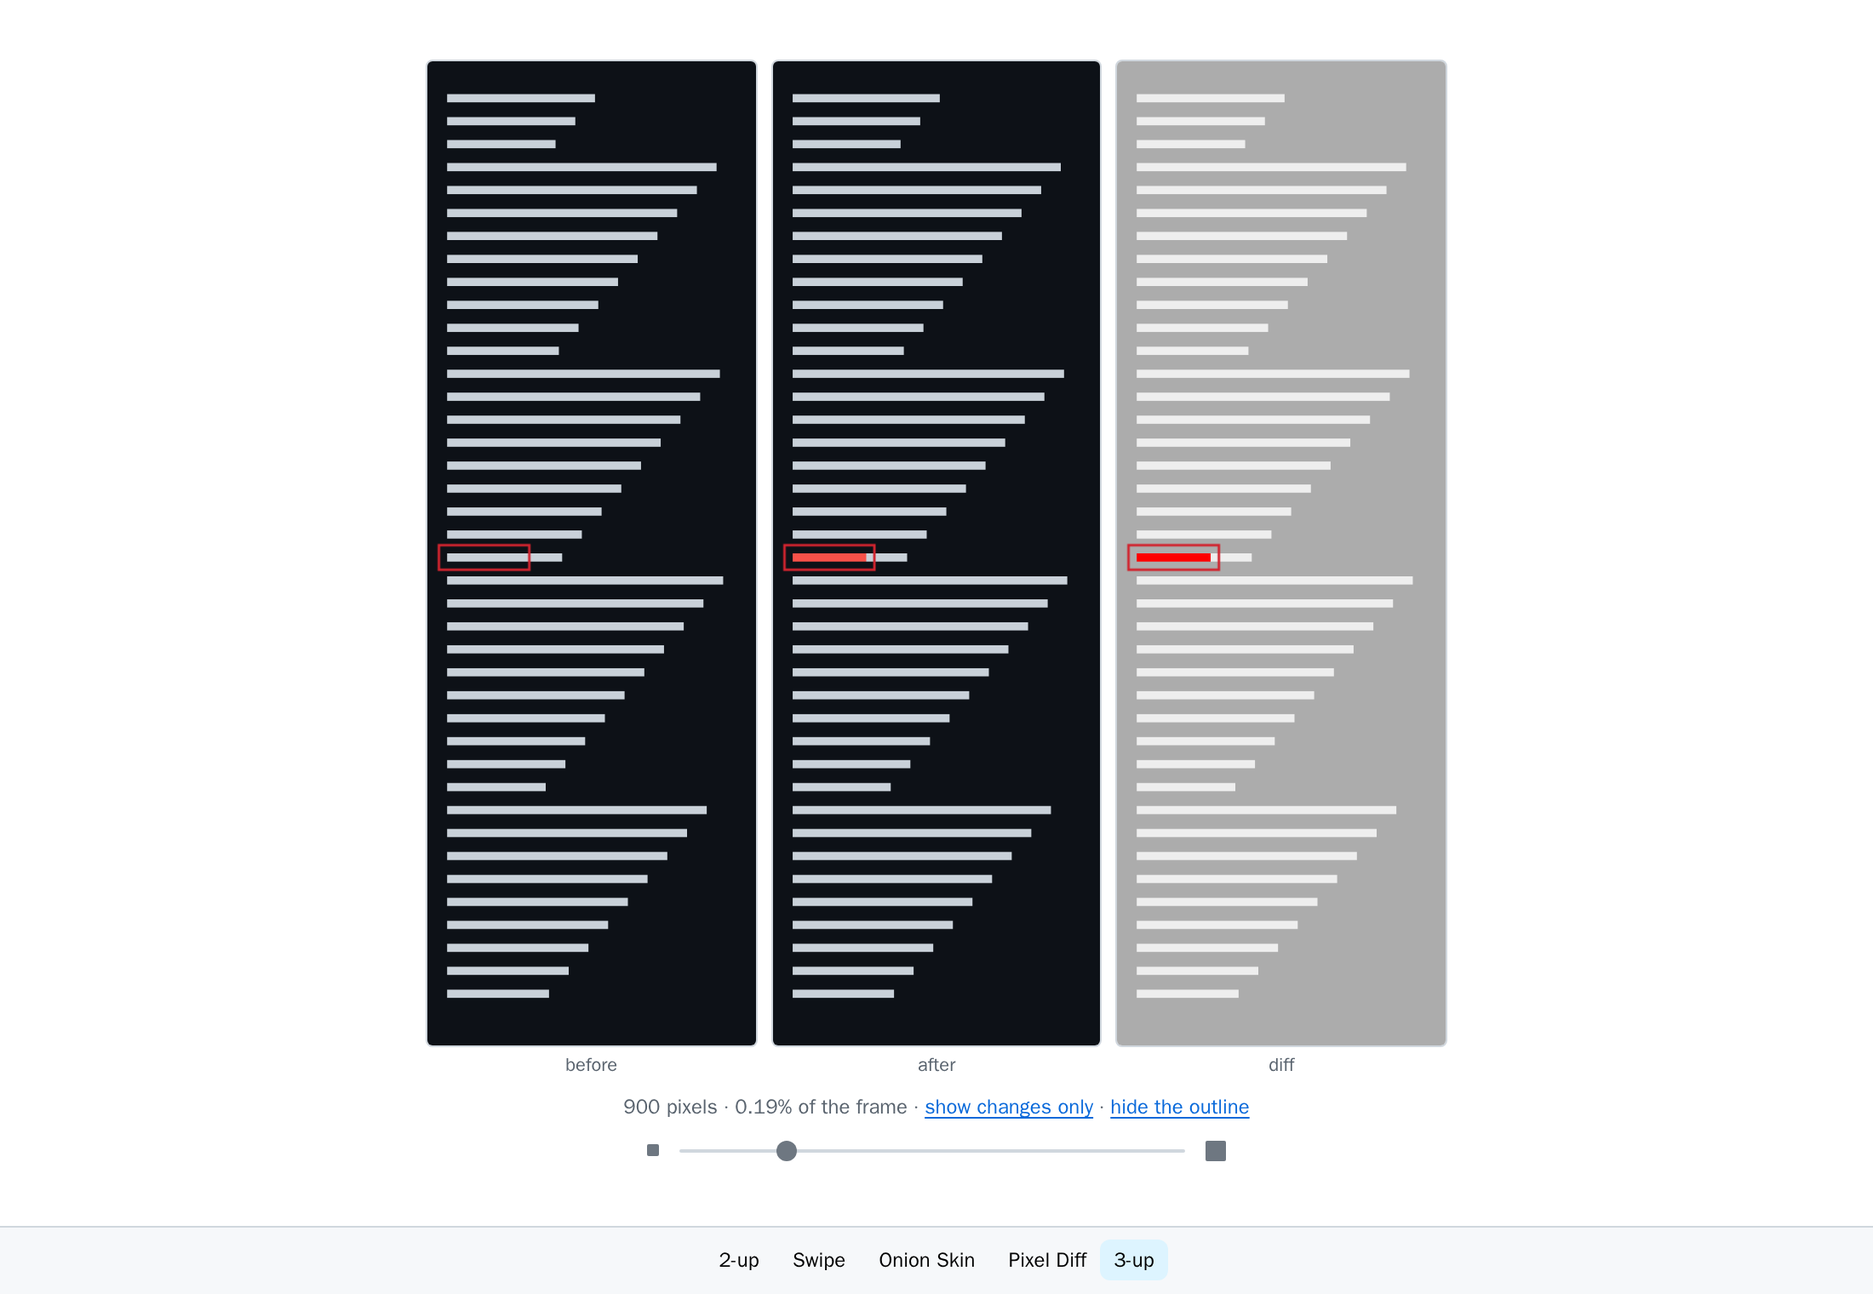
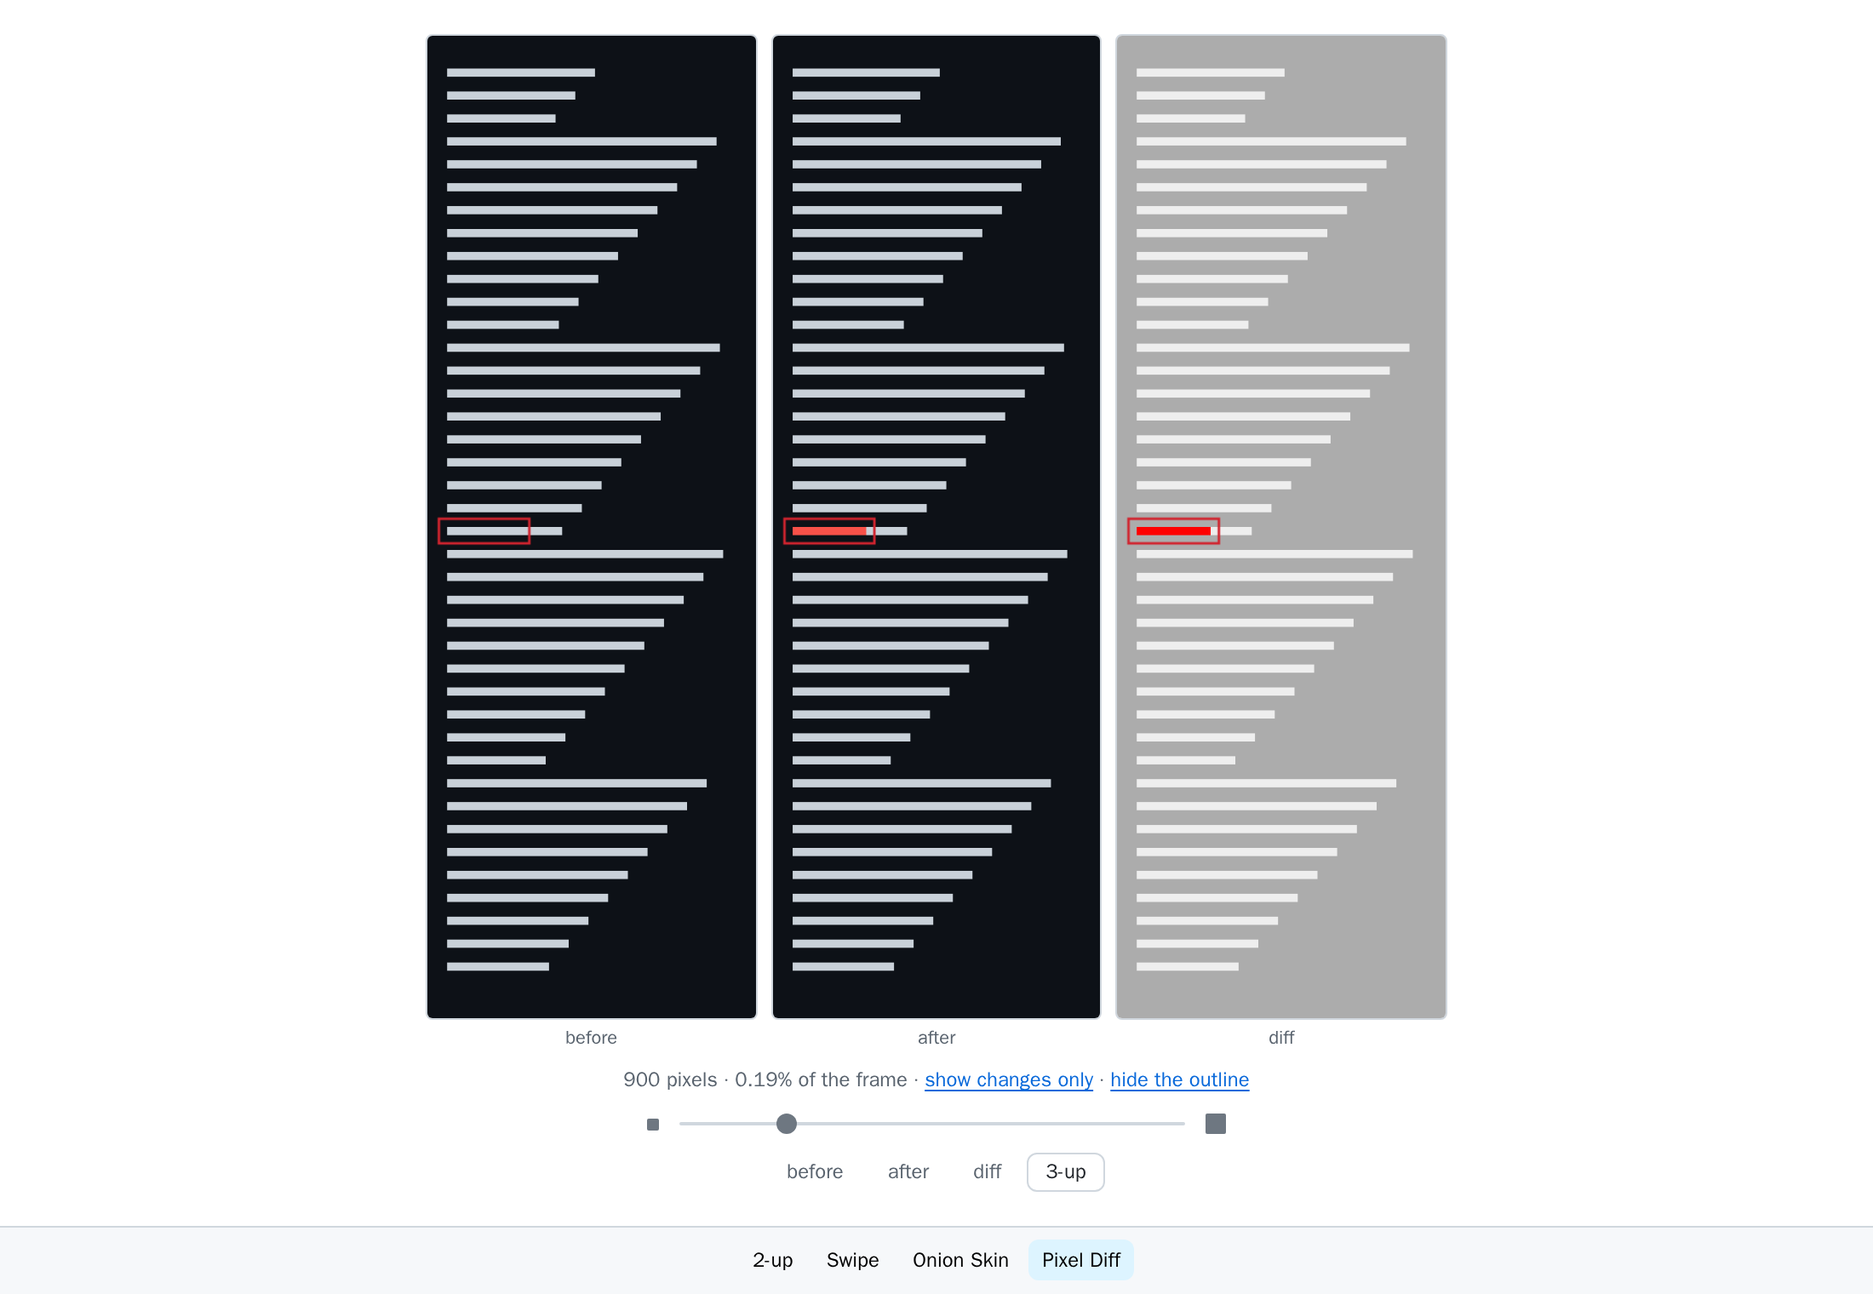
«3-up» — четвёртая кнопка переключателя, а не пункт ряда (#10)
Три кадра рядом — это способ посмотреть на ту же разницу, а не другой
режим просмотра: в ряду GitHub ему делать нечего. Заодно выбранный кадр
теперь запоминается между картинками, как порог и рамка.

Changed region(s): [[0.2164, 0.0, 0.7727, 0.9276], [0.4018, 0.9586, 0.6491, 0.9895]]

diff --git a/src/content/frame.js b/src/content/frame.js
@@ -12,8 +12,9 @@
   const { plural, t } = global.GhPixelDiffI18n;
 
   const MODE = 'pixel-diff';
-  /** Второй наш режим: три кадра рядом — «до», «после» и разница. */
-  const MODE_TRIPLE = 'pixel-3up';
+  /** Что показано: один из кадров или все три сразу. */
+  const FRAMES = { before: 'viewBefore', after: 'viewAfter', diff: 'viewDiff', triple: 'viewTriple' };
+  const FRAME_KEY = 'ghpd:frame';
   const CROP_PADDING = 40;
   /** Порог pixelmatch: 0 — ловит даже сглаживание, 0.5 — только явные отличия. */
   const THRESHOLD_MAX = 0.5;
@@ -64,6 +65,7 @@
     [THRESHOLD_KEY]: null,
     [OUTLINE_KEY]: null,
     [MODE_KEY]: null,
+    [FRAME_KEY]: null,
   };
 
   async function loadSettings() {
@@ -339,7 +341,8 @@
     const triple = el('div', 'ghpd-triple');
     triple.hidden = true;
     const tripleCanvases = new Map();
-    for (const [name, key] of Object.entries({ before: 'viewBefore', after: 'viewAfter', diff: 'viewDiff' })) {
+    for (const [name, key] of Object.entries(FRAMES)) {
+      if (name === 'triple') continue;
       const item = el('div', 'ghpd-triple-item');
       const tripleCanvas = el('canvas', 'ghpd-canvas');
       tripleCanvas.setAttribute('role', 'img');
@@ -365,20 +368,18 @@
     let session = null;
     let starting = null;
     let cropped = true;
-    // Какой из трёх кадров показан: разница, «до» или «после».
-    let shownFrame = 'diff';
-    // Раскладка: один кадр или три рядом.
-    let layout = MODE;
+    // Что показано: разница, «до», «после» или все три сразу. Выбор живёт
+    // между картинками — как порог и рамка.
+    let shownFrame = FRAMES[readSetting(FRAME_KEY)] ? readSetting(FRAME_KEY) : 'diff';
     // Рамка вокруг изменений — по умолчанию да: без неё правку в несколько
     // пикселей на уменьшенном кадре не найти. Но на мелком снимке она сама
     // закрывает картинку, поэтому её можно убрать, и выбор запоминается.
     let outline = readSetting(OUTLINE_KEY) !== 'off';
 
     const render = () => {
-      const single = layout === MODE;
+      const single = shownFrame !== 'triple';
       canvas.hidden = !single;
       triple.hidden = single;
-      views.hidden = !single || !viewsAllowed;
 
       const box = single
         ? drawCrop(canvas, full, result, cropped, outline, shownFrame)
@@ -505,23 +506,19 @@
       }
     };
 
-    // Показывать ли переключатель кадров — решает настройка; в раскладке из
-    // трёх кадров он не нужен, там и так видно все три.
-    let viewsAllowed = true;
-
     // Переключатель кадров. Родные 2-up и Swipe показывают то же самое, но
     // без обрезки по изменениям и без общего масштаба — здесь «до» и «после»
     // ложатся ровно на то место, где найдена разница.
     const views = el('div', 'ghpd-views');
     const viewButtons = new Map();
-    const viewNames = { before: 'viewBefore', after: 'viewAfter', diff: 'viewDiff' };
-    for (const [name, key] of Object.entries(viewNames)) {
+    for (const [name, key] of Object.entries(FRAMES)) {
       const button = el('button', 'ghpd-view-button');
       button.type = 'button';
       button.textContent = t(key);
-      button.setAttribute('aria-pressed', String(name === 'diff'));
+      button.setAttribute('aria-pressed', String(name === shownFrame));
       button.addEventListener('click', () => {
         shownFrame = name;
+        saveSetting(FRAME_KEY, name);
         for (const [key, node] of viewButtons) {
           node.classList.toggle('selected', key === shownFrame);
           node.setAttribute('aria-pressed', String(key === shownFrame));
@@ -531,7 +528,7 @@
       viewButtons.set(name, button);
       views.append(button);
     }
-    viewButtons.get('diff').classList.add('selected');
+    viewButtons.get(shownFrame).classList.add('selected');
 
     let debounce = null;
     const slider = createSlider((value) => {
@@ -542,13 +539,8 @@
 
     return {
       element: view,
-      layout(mode) {
-        layout = mode;
-        if (result) render();
-      },
       showViews(visible) {
-        viewsAllowed = visible;
-        views.hidden = !visible || layout !== MODE;
+        views.hidden = !visible;
         // Переключатель занимает место под кадром — размер запаса знает CSS.
         document.documentElement.classList.toggle('ghpd-with-views', visible);
       },
@@ -587,55 +579,43 @@
     reserveForBar();
     addEventListener('resize', reserveForBar);
 
-    // Два наших режима подряд в родном ряду: один кадр и три рядом.
-    const inputs = new Map();
-    for (const [mode, key] of [[MODE, 'modeName'], [MODE_TRIPLE, 'modeNameTriple']]) {
-      const label = el('label', 'js-view-mode-item ghpd-mode-item');
-      const input = el('input');
-      input.type = 'radio';
-      input.name = 'view-mode';
-      input.value = mode;
-      label.append(input, t(key));
-      modes.append(label);
-      inputs.set(mode, input);
-    }
-
-    const chosen = () => [...inputs].find(([, input]) => input.checked)?.[0] ?? null;
+    const label = el('label', 'js-view-mode-item ghpd-mode-item');
+    const input = el('input');
+    input.type = 'radio';
+    input.name = 'view-mode';
+    input.value = MODE;
+    label.append(input, t('modeName'));
+    modes.append(label);
 
     const sync = () => {
-      const ours = chosen();
+      const ours = input.checked;
       for (const item of modes.querySelectorAll('.js-view-mode-item')) {
         item.classList.toggle('selected', item.querySelector('input')?.checked === true);
       }
       // Родные режимы прячем классом на документе, а не inline-стилем: какой
       // из них показать при возврате, знает скрипт GitHub, и его выбор нельзя
       // затирать — иначе назад приходят все три разом.
-      document.documentElement.classList.toggle('ghpd-active', Boolean(ours));
-      if (!ours) {
-        panel.hide();
-        return;
-      }
-      panel.layout(ours);
-      panel.show();
+      document.documentElement.classList.toggle('ghpd-active', ours);
+      if (ours) panel.show();
+      else panel.hide();
     };
 
     modes.addEventListener('change', () => {
       // Запоминаем только свой выбор: на пул-реквесте с десятком картинок
       // иначе пришлось бы нажимать наш режим в каждом файле заново. Уход на
       // родной режим — сигнал больше не вмешиваться.
-      saveSetting(MODE_KEY, chosen() ?? '');
+      saveSetting(MODE_KEY, input.checked ? MODE : '');
       sync();
     });
 
-    const remembered = inputs.get(readSetting(MODE_KEY));
-    if (!remembered) {
+    if (readSetting(MODE_KEY) !== MODE) {
       sync();
       return;
     }
 
     // Восстанавливаем выбор так же, как это сделал бы человек: щелчком.
     // Скрипт GitHub слушает то же событие и должен узнать о смене режима.
-    const restore = () => remembered.click();
+    const restore = () => input.click();
     if (innerHeight >= FRAME_READY_HEIGHT) {
       restore();
       return;

diff --git a/tests/live.spec.js b/tests/live.spec.js
@@ -64,8 +64,8 @@ test('добавляет режим к родным и считает разни
       return current.evaluate(readState).catch(() => null);
     };
 
-    // Наши два режима встали рядом с тремя родными.
-    await expect.poll(state, { timeout: 60_000 }).toMatchObject({ modes: 5, ours: 2 });
+    // Наш режим встал рядом с тремя родными, ровно один.
+    await expect.poll(state, { timeout: 60_000 }).toMatchObject({ modes: 4, ours: 1 });
 
     await frame().evaluate(() => {
       document.querySelector('.ghpd-mode-item input[value="pixel-diff"]').click();

diff --git a/README.ru.md b/README.ru.md
@@ -6,26 +6,25 @@ GitHub умеет показывать две версии картинки ря
 умеет главного: сказать, **что именно** изменилось. На снимке страницы высотой
 в три тысячи пикселей правка занимает четыре строки — и найти их глазами нельзя.
 
-Расширение добавляет к режимам **2-up**, **Swipe** и **Onion Skin** ещё два.
-**Pixel Diff** считает разницу попиксельно и сразу показывает тот фрагмент, где
-она уместилась; **3-up** ставит рядом «до», «после» и разницу, каждый кадр
-вписан по ширине.
+Расширение добавляет к режимам **2-up**, **Swipe** и **Onion Skin** четвёртый —
+**Pixel Diff**: он считает разницу попиксельно и сразу показывает тот фрагмент,
+где она уместилась.
 
 ![Режим Pixel Diff](docs/screenshots/frame-changes.png)
 
 ## Что умеет
 
-- Встаёт в родной ряд режимов — отдельной панели нет.
-- **3-up** показывает все три кадра сразу, в одной обрезке и одном масштабе:
-  глаз сравнивает подобное с подобным.
+- Встаёт четвёртой кнопкой в родной ряд режимов — отдельной панели нет.
 - Открывается на фрагменте с изменениями; кадр целиком — по ссылке в подписи,
   с красной рамкой вокруг изменившегося места; рамку можно убрать, и выбор
   запомнится.
 - Считает, сколько пикселей изменилось и какую долю кадра это составляет.
 - Ползунок порога — от «ловить даже сглаживание» до «только заметное глазу»,
   в том же виде, что и ползунок Onion Skin.
-- Переключатель «до / после / разница» под кадром: обе версии в том же масштабе
-  и той же обрезке, что и разница. Выключается в окне расширения.
+- Переключатель «до / после / разница / **3-up**» под кадром: любая из версий
+  поодиночке или все три рядом — всегда в том же масштабе и той же обрезке, что
+  и разница, чего родные 2-up и Swipe не умеют. Выбор запоминается, а сам
+  переключатель выключается в окне расширения.
 - Разные размеры «до» и «после» не ломают сравнение: кадры выравниваются по
   левому верхнему углу, а изменение размера попадает в подпись.
 - Работает в приватных репозиториях: адреса картинок берутся из фрейма, который

diff --git a/README.md b/README.md
@@ -7,27 +7,25 @@ as an overlay — but not the one thing that matters: **what actually changed**.
 a three-thousand-pixel page screenshot an edit takes up four lines, and no eye
 will find them.
 
-The extension adds two modes next to **2-up**, **Swipe** and **Onion Skin**.
-**Pixel Diff** compares the images pixel by pixel and opens straight on the
-fragment where the difference lives; **3-up** puts before, after and the
-difference side by side, each scaled to fit.
+The extension adds a fourth mode next to **2-up**, **Swipe** and **Onion Skin** —
+**Pixel Diff**: it compares the images pixel by pixel and opens straight on the
+fragment where the difference lives.
 
 ![Pixel Diff mode](docs/screenshots/frame-changes.png)
 
 ## What it does
 
-- Sits in the native row of modes — no separate panel.
-- **3-up** shows all three frames at once, in the same crop and scale, so the
-  eye compares like with like.
+- Sits as a fourth button in the native row of modes — no separate panel.
 - Opens on the changed fragment; the full frame is one link away in the caption,
   with the changed area outlined in red — the outline can be turned off, and the
   choice is remembered.
 - Counts how many pixels changed and what share of the frame that is.
 - A threshold slider — from "catch even anti-aliasing" to "only what the eye
   sees" — styled like the Onion Skin one.
-- A before / after / diff switcher under the frame: the two versions in the same
-  scale and the same crop as the difference. It can be turned off in the
-  extension's window.
+- A before / after / diff / **3-up** switcher under the frame: any one version,
+  or all three side by side — always in the same scale and the same crop as the
+  difference, which the native 2-up and Swipe cannot do. The choice is
+  remembered, and the switcher can be turned off in the extension's window.
 - Different "before" and "after" sizes don't break the comparison: frames are
   aligned by their top-left corner and the resize is reported in the caption.
 - Works in private repositories: the image addresses are read from the frame

diff --git a/CHANGELOG.md b/CHANGELOG.md
@@ -6,6 +6,14 @@ adheres to [semantic versioning](https://semver.org/).
 
 ## [Unreleased]
 
+## [0.7.0]
+
+### Changed
+
+- Three frames side by side is now the fourth option of the before / after /
+  diff switcher rather than its own entry in the native row of modes, and the
+  chosen frame is remembered between images.
+
 ## [0.6.1]
 
 ### Fixed
@@ -155,7 +163,8 @@ adheres to [semantic versioning](https://semver.org/).
 Initial release: the Pixel Diff mode in GitHub's image viewer, builds for
 Chrome, Firefox and Safari.
 
-[Unreleased]: https://github.com/Nemo-Illusionist/gh-pixel-diff/compare/v0.6.1...HEAD
+[Unreleased]: https://github.com/Nemo-Illusionist/gh-pixel-diff/compare/v0.7.0...HEAD
+[0.7.0]: https://github.com/Nemo-Illusionist/gh-pixel-diff/compare/v0.6.1...v0.7.0
 [0.6.1]: https://github.com/Nemo-Illusionist/gh-pixel-diff/compare/v0.6.0...v0.6.1
 [0.6.0]: https://github.com/Nemo-Illusionist/gh-pixel-diff/compare/v0.5.1...v0.6.0
 [0.5.1]: https://github.com/Nemo-Illusionist/gh-pixel-diff/compare/v0.5.0...v0.5.1
